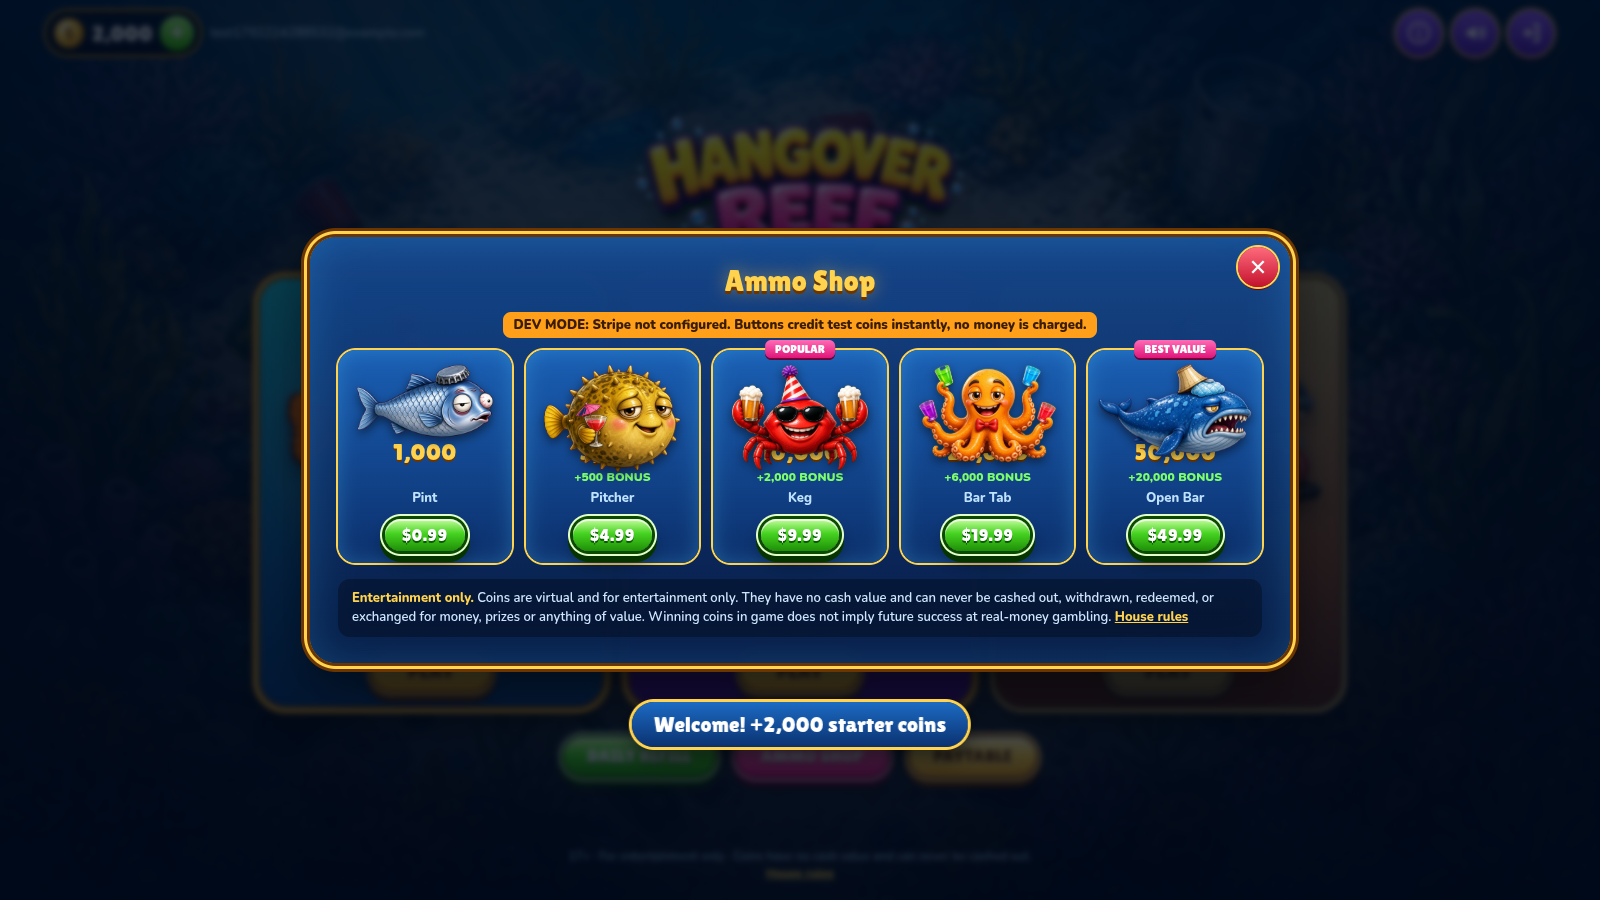
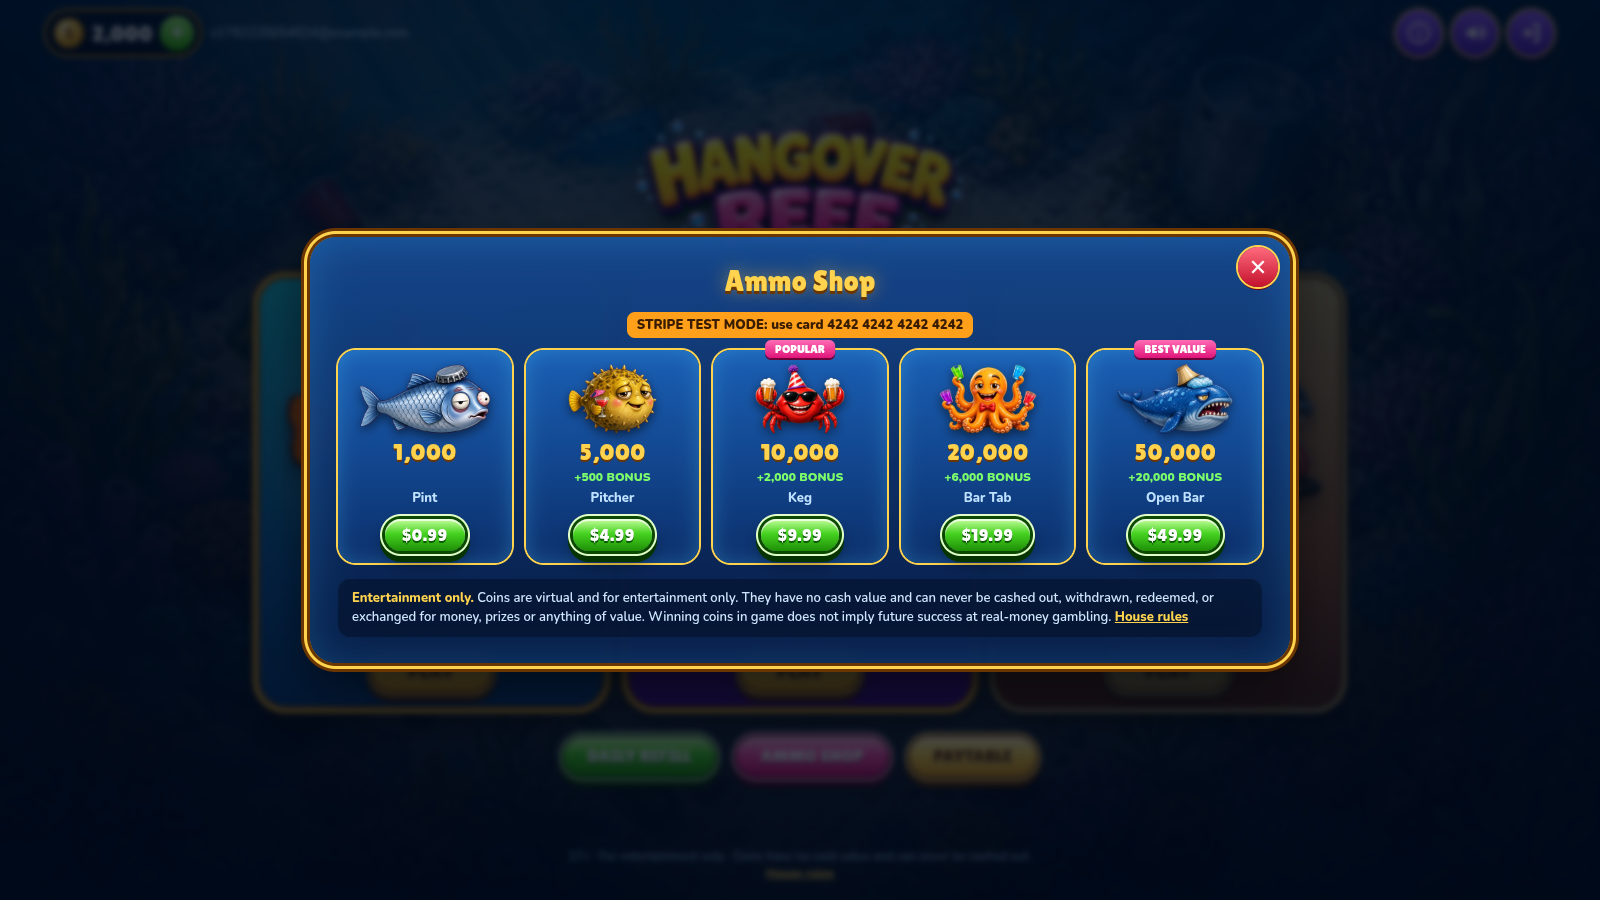
Fix shop pack art overlapping coin amounts on phones

diff --git a/client/src/style.css b/client/src/style.css
@@ -92,8 +92,8 @@ input { font-family: var(--body); }
 .close { position: absolute; top: 10px; right: 12px; width: 40px; height: 40px; border-radius: 50%; font-size: 22px; background: linear-gradient(180deg, #ff6b7d, #c3112c); box-shadow: 0 0 0 2px #ffd34d, 0 3px 0 #6d0010; z-index: 2; }
 .packs { display: grid; grid-template-columns: repeat(5, minmax(120px, 1fr)); gap: 14px; }
 .pack { position: relative; border-radius: 18px; padding: 14px 10px 12px; text-align: center; background: linear-gradient(180deg, #1a5fb4, #0b2f6b); box-shadow: 0 0 0 2px #ffd34d, inset 0 0 20px rgba(80,200,255,.3); display: flex; flex-direction: column; align-items: center; gap: 4px; }
-.pack .stack { height: 70px; width: 100%; display: grid; place-items: center; }
-.pack .stack img { max-height: 100%; max-width: 90%; filter: drop-shadow(0 4px 5px rgba(0,0,0,.5)); }
+.pack .stack { height: 70px; width: 100%; display: flex; align-items: center; justify-content: center; }
+.pack .stack img { height: 70px; width: 90%; object-fit: contain; filter: drop-shadow(0 4px 5px rgba(0,0,0,.5)); }
 .pack:nth-child(5) .stack img { max-width: 100%; }
 .pack .amt { font-family: var(--font); font-size: 24px; color: var(--gold2); text-shadow: 0 2px 0 #6b3500; }
 .pack .bonus { font-size: 12px; font-weight: 900; color: #7dff6a; min-height: 16px; }
@@ -152,7 +152,6 @@ input { font-family: var(--body); }
 @media (orientation: portrait) and (max-width: 900px) { #rotate { display: flex; } }
 
 @media (max-height: 520px) {
-  .pack .stack { height: 44px; }
   .lobby .logo { width: min(16vw, 200px); margin-top: -36px; }
   .topbar { padding-top: max(6px, env(safe-area-inset-top)); }
   .pill { height: 38px; font-size: 19px; } .iconbtn { width: 40px; height: 40px; }
@@ -162,7 +161,7 @@ input { font-family: var(--body); }
   .room .req { font-size: 11px; margin-bottom: 5px; min-height: 0; } .room .gold-btn { font-size: 16px; padding: .3em 1.5em; }
   .lobby-actions { margin-top: 12px; gap: 14px; } .lobby-actions .gold-btn { font-size: 13px; padding: .45em 1.1em; }
   .lobby .fineprint { font-size: 10px; }
-  .panel { padding: 18px; } .packs { gap: 8px; } .pack .stack { font-size: 24px; height: 34px; }
+  .panel { padding: 18px; } .packs { gap: 8px; } .pack .stack, .pack .stack img { height: 46px; }
   .auth { flex-direction: row; flex-wrap: wrap; justify-content: safe center; align-content: safe center; gap: 4px 4vw; padding: 8px; }
   .auth .logo { width: 34vw; } .auth .panel { width: min(400px, 52vw); padding: 14px 20px; } .auth .panel h2 { font-size: 24px; margin-bottom: 8px; }
   .auth .fineprint { flex-basis: 100%; font-size: 11px; } .switch { margin-top: 8px; } .check { margin: 2px 0 10px; font-size: 13px; }
